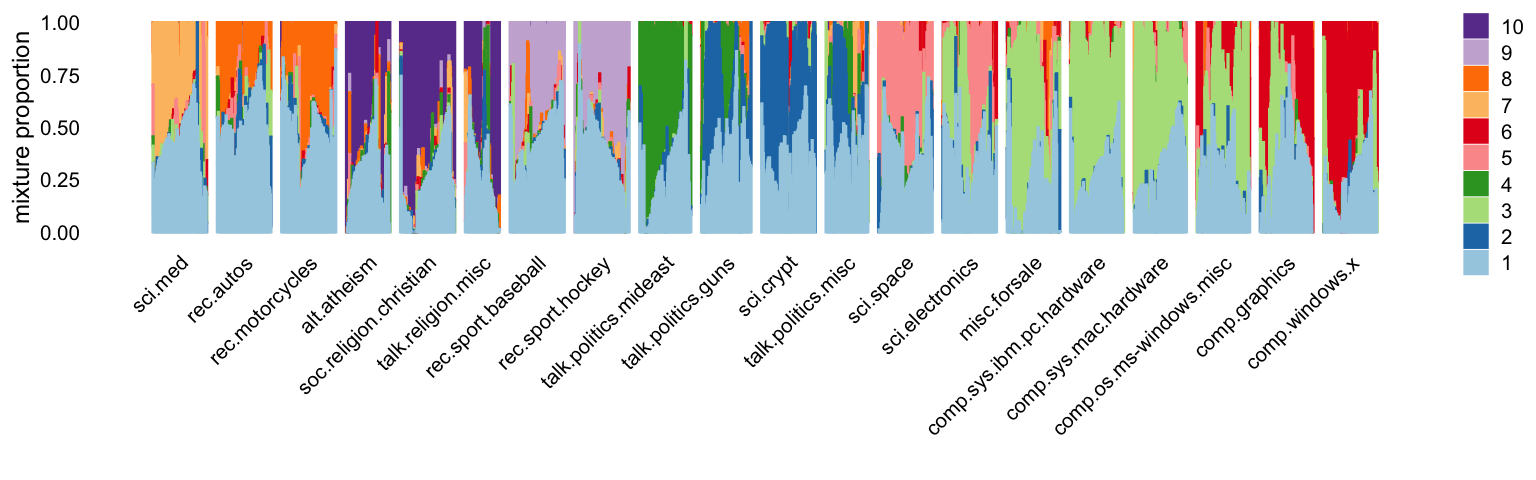
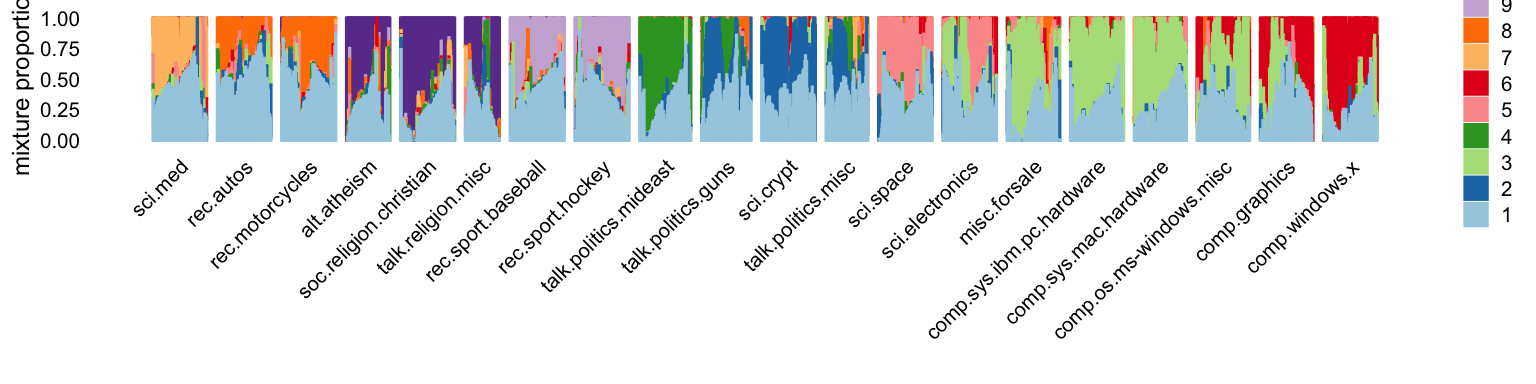
Added structure plot to assess_fits_newsgroups analysis.

diff --git a/docs/assess_fits_newsgroups.html b/docs/assess_fits_newsgroups.html
@@ -323,7 +323,7 @@ $(document).ready(function () {
 <div class="tab-content">
 <div id="summary" class="tab-pane fade in active">
 <p>
-<strong>Last updated:</strong> 2021-04-10
+<strong>Last updated:</strong> 2021-04-11
 </p>
 <p>
 <strong>Checks:</strong> <span class="glyphicon glyphicon-ok text-success" aria-hidden="true"></span> 7 <span class="glyphicon glyphicon-exclamation-sign text-danger" aria-hidden="true"></span> 0
@@ -414,16 +414,16 @@ This reproducible <a href="http://rmarkdown.rstudio.com">R Markdown</a> analysis
 <div class="panel panel-default">
 <div class="panel-heading">
 <p class="panel-title">
-<a data-toggle="collapse" data-parent="#workflowr-checks" href="#strongRepositoryversionstrongahrefhttpsgithubcomstephenslabfastTopicsexperimentstreebf5c562cac0a07284901568e6c36a9afa62fd828targetblankbf5c562a"> <span class="glyphicon glyphicon-ok text-success" aria-hidden="true"></span> <strong>Repository version:</strong> <a href="https://github.com/stephenslab/fastTopics-experiments/tree/bf5c562cac0a07284901568e6c36a9afa62fd828" target="_blank">bf5c562</a> </a>
+<a data-toggle="collapse" data-parent="#workflowr-checks" href="#strongRepositoryversionstrongahrefhttpsgithubcomstephenslabfastTopicsexperimentstreea656801ce98cdaa2a27a31965b6faf3081d977a7targetblanka656801a"> <span class="glyphicon glyphicon-ok text-success" aria-hidden="true"></span> <strong>Repository version:</strong> <a href="https://github.com/stephenslab/fastTopics-experiments/tree/a656801ce98cdaa2a27a31965b6faf3081d977a7" target="_blank">a656801</a> </a>
 </p>
 </div>
[2 lines of base64/hex data omitted]
 <div class="panel-body">
 <p>
 Great! You are using Git for version control. Tracking code development and connecting the code version to the results is critical for reproducibility.
 </p>
 <p>
-The results in this page were generated with repository version <a href="https://github.com/stephenslab/fastTopics-experiments/tree/bf5c562cac0a07284901568e6c36a9afa62fd828" target="_blank">bf5c562</a>. See the <em>Past versions</em> tab to see a history of the changes made to the R Markdown and HTML files.
+The results in this page were generated with repository version <a href="https://github.com/stephenslab/fastTopics-experiments/tree/a656801ce98cdaa2a27a31965b6faf3081d977a7" target="_blank">a656801</a>. See the <em>Past versions</em> tab to see a history of the changes made to the R Markdown and HTML files.
 </p>
 <p>
 Note that you need to be careful to ensure that all relevant files for the analysis have been committed to Git prior to generating the results (you can use <code>wflow_publish</code> or <code>wflow_git_commit</code>). workflowr only checks the R Markdown file, but you know if there are other scripts or data files that it depends on. Below is the status of the Git repository when the results were generated:
@@ -440,6 +440,7 @@ Ignored files:
     Ignored:    output/pbmc68k/fits-pbmc68k.RData
 
 Untracked files:
+    Untracked:  .DS_Store
     Untracked:  plots/
 
 </code></pre>
@@ -479,6 +480,40 @@ Message
 </tr>
 </thead>
 <tbody>
+<tr>
+<td>
+Rmd
+</td>
+<td>
+<a href="https://github.com/stephenslab/fastTopics-experiments/blob/a656801ce98cdaa2a27a31965b6faf3081d977a7/analysis/assess_fits_newsgroups.Rmd" target="_blank">a656801</a>
+</td>
+<td>
+Peter Carbonetto
+</td>
+<td>
+2021-04-11
+</td>
+<td>
+workflowr::wflow_publish(“assess_fits_newsgroups.Rmd”)
+</td>
+</tr>
+<tr>
+<td>
+html
+</td>
+<td>
+<a href="https://rawcdn.githack.com/stephenslab/fastTopics-experiments/ce00ac51f9c7672fdf446c345c4c975d7097d85b/docs/assess_fits_newsgroups.html" target="_blank">ce00ac5</a>
+</td>
+<td>
+Peter Carbonetto
+</td>
+<td>
+2021-04-10
+</td>
+<td>
+Added structure plot to assess_fits_newsgroups analysis.
+</td>
+</tr>
 <tr>
 <td>
 Rmd
@@ -1104,7 +1139,7 @@ Peter Carbonetto
 </table>
 </div>
 </div>
-<p><em>Add text here.</em></p>
+<p>For a closer look at the <span class="math inline">\(K = 10\)</span> (extrapolated) CD estimates, we create a Structure plot:</p>
 <pre class="r"><code>set.seed(1)
 topics &lt;- factor(topics,
                  c(&quot;sci.med&quot;,&quot;rec.autos&quot;,&quot;rec.motorcycles&quot;,&quot;alt.atheism&quot;,
@@ -1123,6 +1158,43 @@ p3 &lt;- structure_plot(fit,grouping = topics,topics = 10:1,
                      verbose = FALSE)
 print(p3)</code></pre>
 <p><img src="figure/assess_fits_newsgroups.Rmd/unnamed-chunk-1-1.png" width="768" style="display: block; margin: auto;" /></p>
+<p>
+<button type="button" class="btn btn-default btn-xs btn-workflowr btn-workflowr-fig" data-toggle="collapse" data-target="#fig-unnamed-chunk-1-1">
+Past versions of unnamed-chunk-1-1.png
+</button>
+</p>
+<div id="fig-unnamed-chunk-1-1" class="collapse">
+<div class="table-responsive">
+<table class="table table-condensed table-hover">
+<thead>
+<tr>
+<th>
+Version
+</th>
+<th>
+Author
+</th>
+<th>
+Date
+</th>
+</tr>
+</thead>
+<tbody>
+<tr>
+<td>
+<a href="https://github.com/stephenslab/fastTopics-experiments/blob/ce00ac51f9c7672fdf446c345c4c975d7097d85b/docs/figure/assess_fits_newsgroups.Rmd/unnamed-chunk-1-1.png" target="_blank">ce00ac5</a>
+</td>
+<td>
+Peter Carbonetto
+</td>
+<td>
+2021-04-10
+</td>
+</tr>
+</tbody>
+</table>
+</div>
+</div>
 <br>
 <p>
 <button type="button" class="btn btn-default btn-workflowr btn-workflowr-sessioninfo" data-toggle="collapse" data-target="#workflowr-sessioninfo" style="display: block;">
